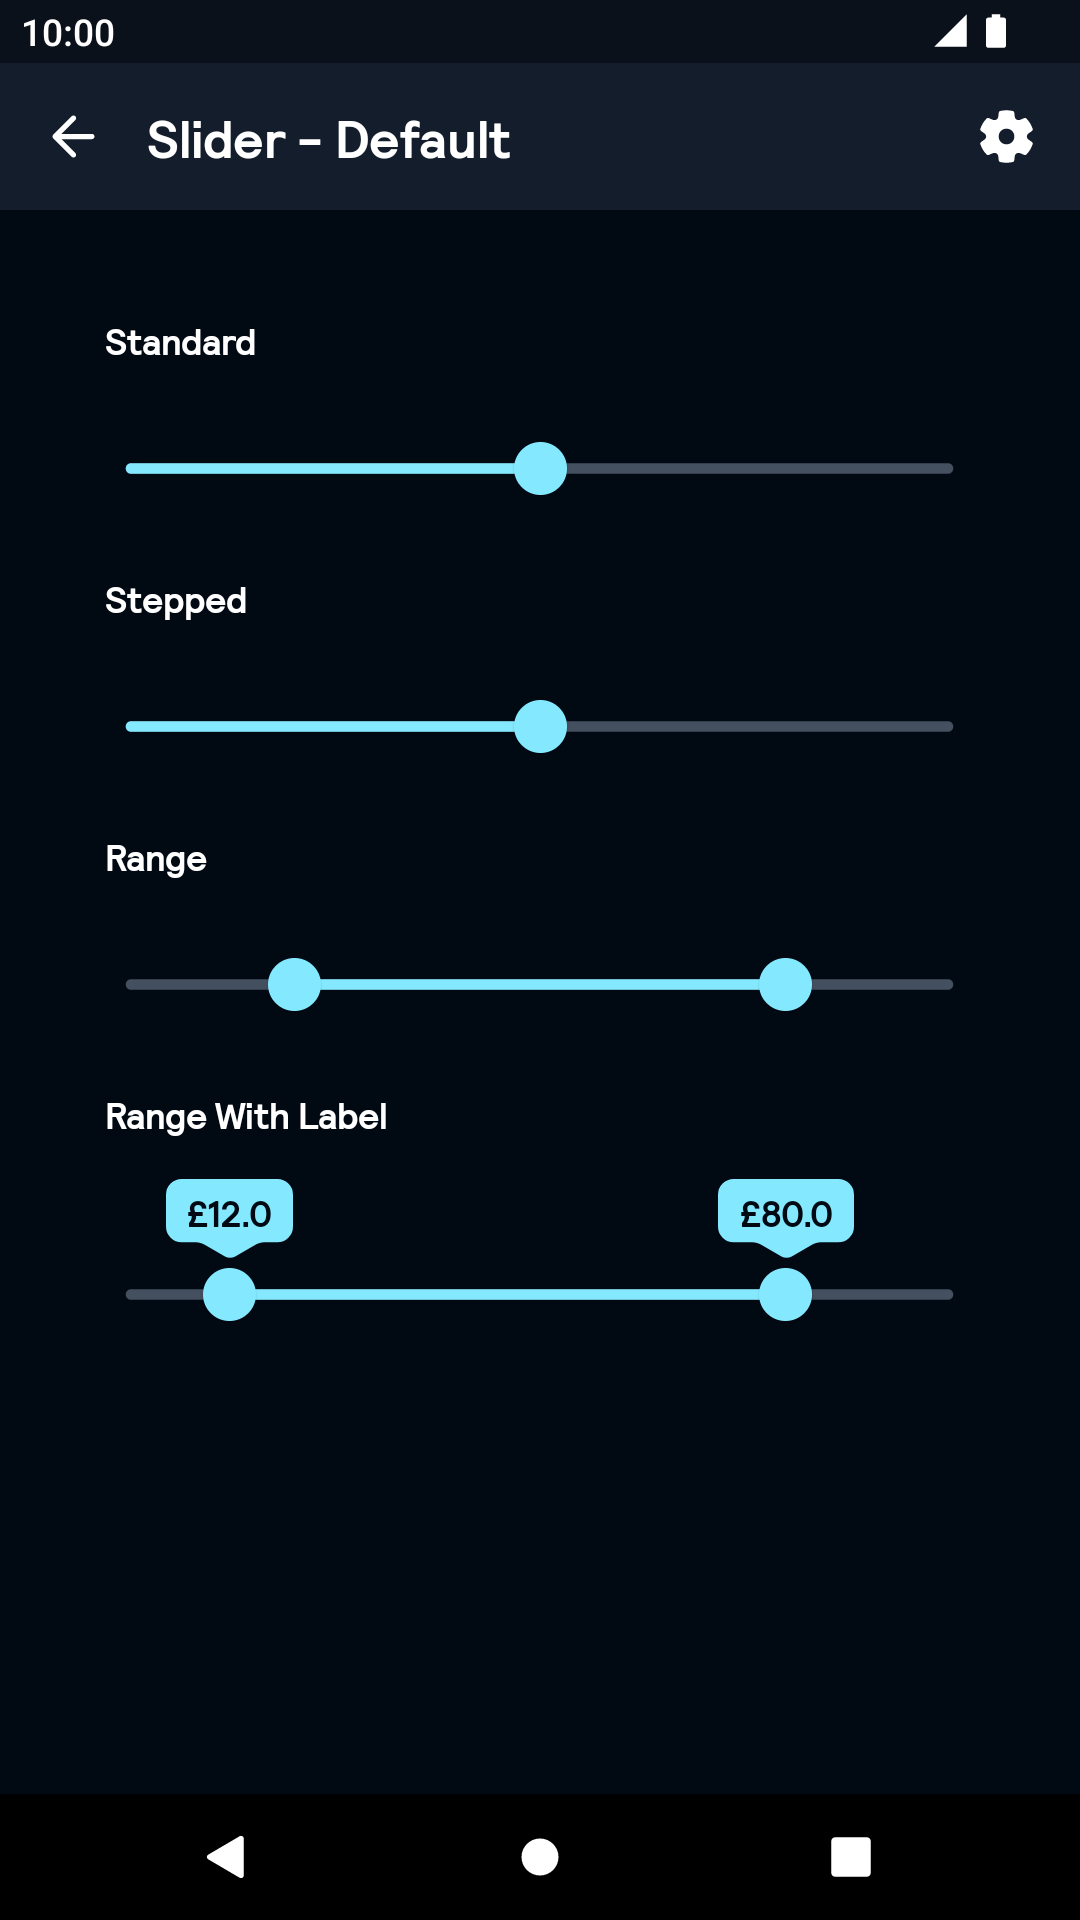
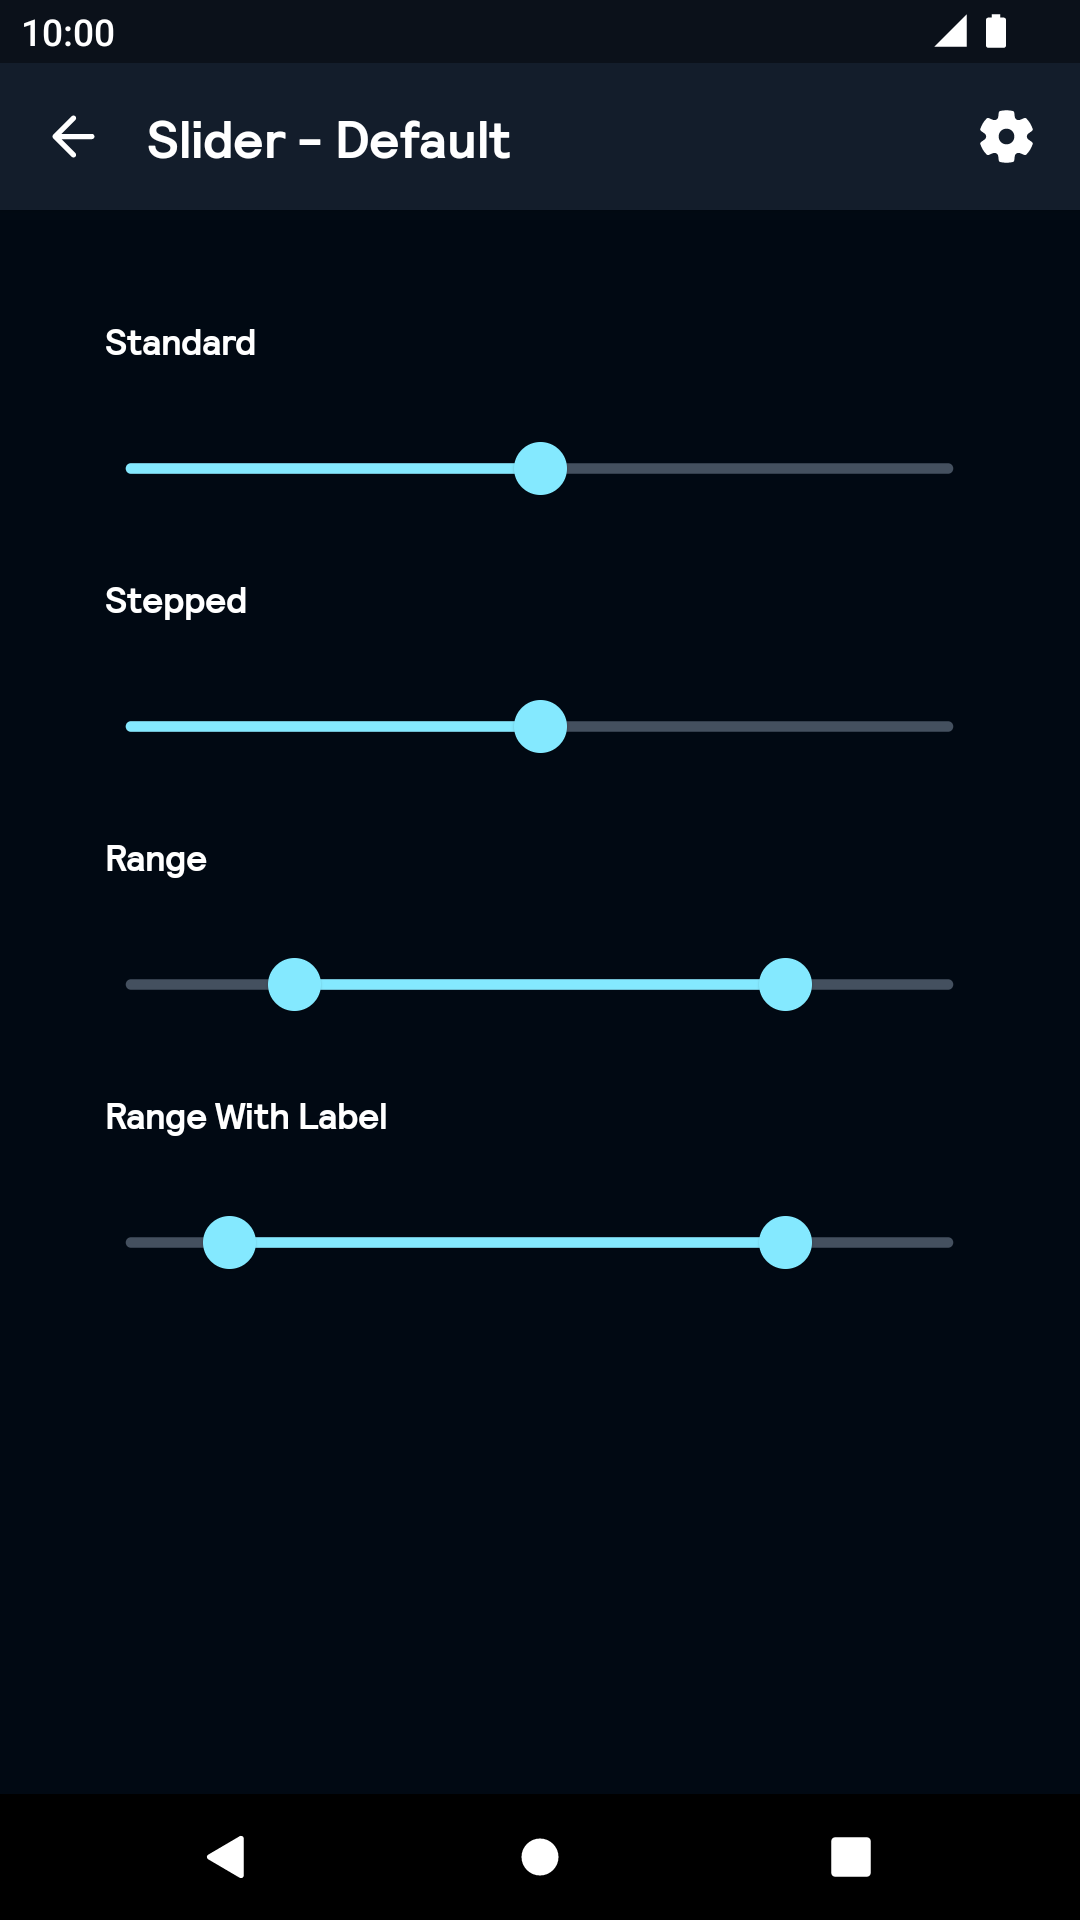
LMN-736 update BpkRangeSlider

Changed region(s): [[0.1222, 0.5938, 0.8861, 0.6875]]

diff --git a/backpack-compose/src/main/kotlin/net/skyscanner/backpack/compose/slider/internal/BpkRangeSliderImpl.kt b/backpack-compose/src/main/kotlin/net/skyscanner/backpack/compose/slider/internal/BpkRangeSliderImpl.kt
@@ -20,6 +20,7 @@ package net.skyscanner.backpack.compose.slider.internal
 
 import androidx.compose.foundation.background
 import androidx.compose.foundation.interaction.MutableInteractionSource
+import androidx.compose.foundation.interaction.collectIsDraggedAsState
 import androidx.compose.foundation.layout.Box
 import androidx.compose.foundation.layout.height
 import androidx.compose.foundation.layout.padding
@@ -42,7 +43,6 @@ import net.skyscanner.backpack.compose.text.BpkText
 import net.skyscanner.backpack.compose.theme.BpkTheme
 import net.skyscanner.backpack.compose.tokens.BpkSpacing
 import net.skyscanner.backpack.compose.utils.FlareShape
-import net.skyscanner.backpack.compose.utils.applyIf
 
 @OptIn(ExperimentalMaterial3Api::class)
 @Composable
@@ -60,6 +60,10 @@ internal fun BpkRangeSliderImpl(
 ) {
     val startInteractionSource = remember { MutableInteractionSource() }
     val endInteractionSource = remember { MutableInteractionSource() }
+
+    val isLowerThumbBeingTouched = startInteractionSource.collectIsDraggedAsState().value
+    val isUpperThumbBeingTouched = endInteractionSource.collectIsDraggedAsState().value
+
     RangeSlider(
         value = value,
         onValueChange = onValueChange,
@@ -71,38 +75,39 @@ internal fun BpkRangeSliderImpl(
         steps = steps,
         onValueChangeFinished = onValueChangeFinished,
         startThumb = {
-            lowerThumbLabel?.let {
+            if (isLowerThumbBeingTouched && lowerThumbLabel != null) {
                 SlideRangeLabel(
-                    label = it,
+                    label = lowerThumbLabel,
                     enabled = enabled,
                     interactionSource = startInteractionSource,
                 )
-            } ?: SliderDefaults.Thumb(
-                interactionSource = startInteractionSource,
-                colors = sliderColors(),
-                enabled = enabled,
-            )
+            } else {
+                SliderDefaults.Thumb(
+                    interactionSource = startInteractionSource,
+                    colors = sliderColors(),
+                    enabled = enabled,
+                )
+            }
         },
         endThumb = {
-            upperThumbLabel?.let {
+            if (isUpperThumbBeingTouched && upperThumbLabel != null) {
                 SlideRangeLabel(
-                    label = it,
+                    label = upperThumbLabel,
                     enabled = enabled,
                     interactionSource = endInteractionSource,
                 )
-            } ?: SliderDefaults.Thumb(
-                interactionSource = endInteractionSource,
-                colors = sliderColors(),
-                enabled = enabled,
-            )
+            } else {
+                SliderDefaults.Thumb(
+                    interactionSource = endInteractionSource,
+                    colors = sliderColors(),
+                    enabled = enabled,
+                )
+            }
         },
         track = {
             SliderDefaults.Track(
                 colors = sliderColors(),
                 sliderPositions = it,
-                modifier = Modifier.applyIf(upperThumbLabel != null || lowerThumbLabel != null) {
-                    padding(top = LabelOffset)
-                },
             )
         },
         colors = sliderColors(),
@@ -144,7 +149,7 @@ private fun SlideRangeLabel(
             )
         }
         SliderDefaults.Thumb(
-            modifier = Modifier.padding(top = LabelOffset)
+            modifier = Modifier
                 .semantics { stateDescription = label },
             interactionSource = interactionSource,
             colors = sliderColors(),
@@ -170,13 +175,15 @@ private fun LabelLayout(
         // ignore the label width as it'll be drawn outside the bounds of the range slider to avoid jumping around
         layout(thumbPlaceable.width, thumbPlaceable.height) {
             // ensure the label is centred on the thumb
-            labelPlaceable.placeRelative(x = (thumbPlaceable.width - labelPlaceable.width) / 2, y = 0)
+            labelPlaceable.placeRelative(
+                x = (thumbPlaceable.width - labelPlaceable.width) / 2,
+                y = -(thumbPlaceable.width + labelPlaceable.height / 2),
+            )
             thumbPlaceable.placeRelative(x = 0, y = 0)
         }
     }
 }
 
-private val LabelOffset = 34.dp
 private val FlareHeight = 6.dp
 private val BorderRadius = 6.dp
 

diff --git a/docs/compose/Slider/README.md b/docs/compose/Slider/README.md
@@ -38,7 +38,7 @@ BpkRangeSlider(
 )
 ```
 
-Example of a `BpkRangeSlider` with Label:
+Example of a `BpkRangeSlider` with Label displayed when thumb is dragged:
 
 ```Kotlin
 import net.skyscanner.backpack.compose.slider.BpkSlider
